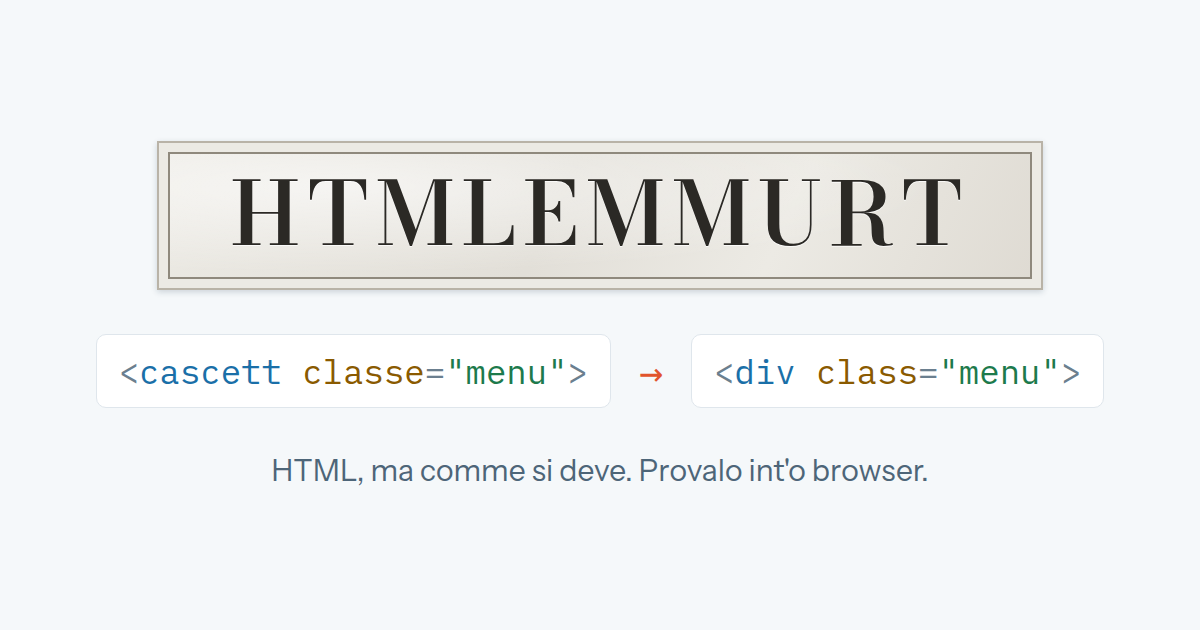
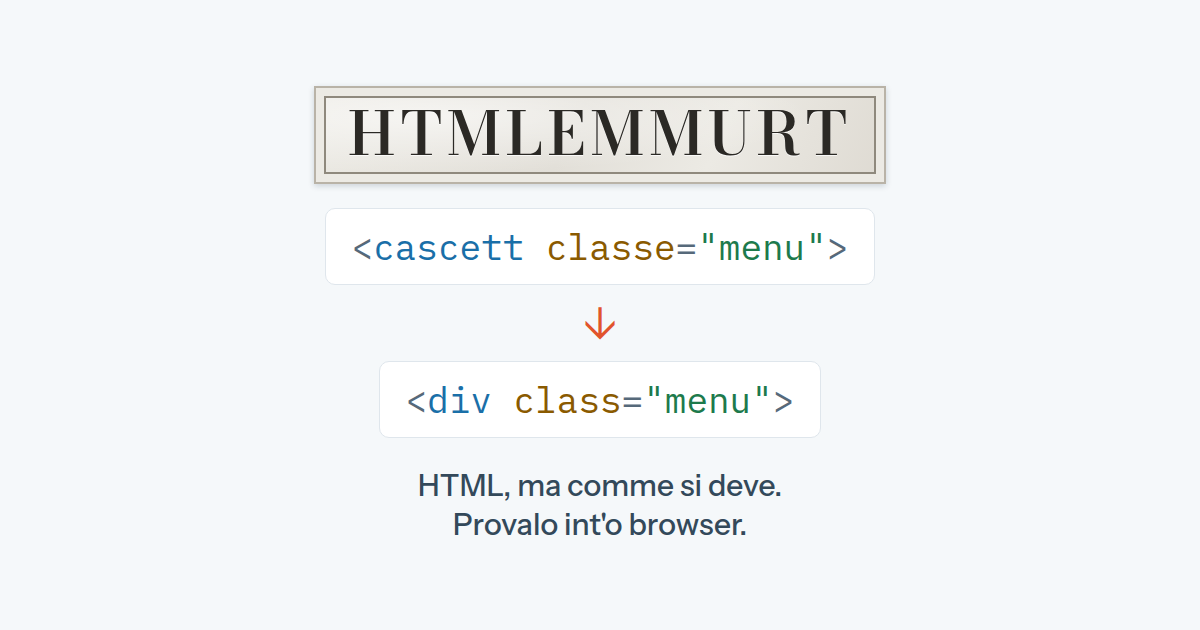
feat(playground): accento arancione dello scudo, riga che spiega il progetto e og.png per i ritagli quadrati

diff --git a/packages/playground/src/stile.css b/packages/playground/src/stile.css
@@ -3,13 +3,14 @@
   --carta: #ffffff;
   --mare: #0f2b40;
   --mare-tenue: #4d6578;
-  --azzurro: #1a6fa8;
-  --su-azzurro: #ffffff;
+  /* The orange of the shield (#e1542c), one step darker so text in it
+     reaches 4.5:1 */
+  --accento: #c4441f;
   --tufo: #dfe6ec;
   /* Borders of fields: 3:1 against paper and page */
   --filo: #7f92a3;
-  --arancio: #e1542c;
-  --sbaglio: #b42318;
+  /* Crimson, away from the orange accent */
+  --sbaglio: #b0103a;
   --riga-attiva: #f0f5f9;
   --selezione: #dcedf9;
 
@@ -32,12 +33,11 @@
     --carta: #0f2130;
     --mare: #e3edf4;
     --mare-tenue: #9fb3c3;
-    --azzurro: #5bb4ea;
-    --su-azzurro: #06131c;
+    /* The light orange of the shield */
+    --accento: #ef672e;
     --tufo: #1f3647;
     --filo: #557089;
-    --arancio: #f0703f;
-    --sbaglio: #ff8a7a;
+    --sbaglio: #ff8fa3;
     --riga-attiva: #13293b;
     --selezione: #173a55;
 
@@ -70,15 +70,15 @@ body {
 }
 
 a {
-  color: var(--azzurro);
+  color: var(--accento);
 }
 
 :focus-visible {
-  outline: 2px solid var(--azzurro);
+  outline: 2px solid var(--accento);
   outline-offset: 2px;
 }
 
-/* Testata: la targa di marmo dei vicoli, poi i comandi */
+/* Testata: la targa di marmo dei vicoli e cosa fa, poi i comandi */
 
 .testata {
   display: flex;
@@ -118,6 +118,24 @@ a {
   letter-spacing: 0.08em;
 }
 
+.insegna {
+  display: flex;
+  flex-wrap: wrap;
+  align-items: center;
+  gap: 0.5rem 1rem;
+}
+
+.motto {
+  margin: 0;
+  color: var(--mare-tenue);
+}
+
+.motto code {
+  font-family: var(--mono);
+  font-size: 0.9em;
+  color: var(--c-tag);
+}
+
 .comandi {
   display: flex;
   flex-wrap: wrap;
@@ -153,16 +171,17 @@ input {
 }
 
 #condividi {
+  /* Sharing comes second to writing: an outline, so the plaque leads */
   padding: 0.4rem 0.9rem;
-  color: var(--su-azzurro);
-  background: var(--azzurro);
-  border: 0;
+  color: var(--accento);
+  background: none;
+  border: 1px solid var(--accento);
   border-radius: 6px;
   cursor: pointer;
 }
 
 #condividi:hover {
-  filter: brightness(0.9);
+  background: color-mix(in srgb, var(--accento) 10%, transparent);
 }
 
 /* Wide enough for "Copialo d'a barra", so the bar does not jump when the
@@ -252,7 +271,7 @@ input {
 
 .scheda[aria-selected="true"] {
   color: var(--mare);
-  border-bottom-color: var(--azzurro);
+  border-bottom-color: var(--accento);
 }
 
 .vista {
@@ -429,8 +448,9 @@ input {
     grid-template-columns: minmax(0, 1fr);
   }
 
+  /* Short enough that the tabs and the top of the preview show on the first screen */
   .editor {
-    height: 55vh;
+    height: 40vh;
     flex: none;
   }
 
